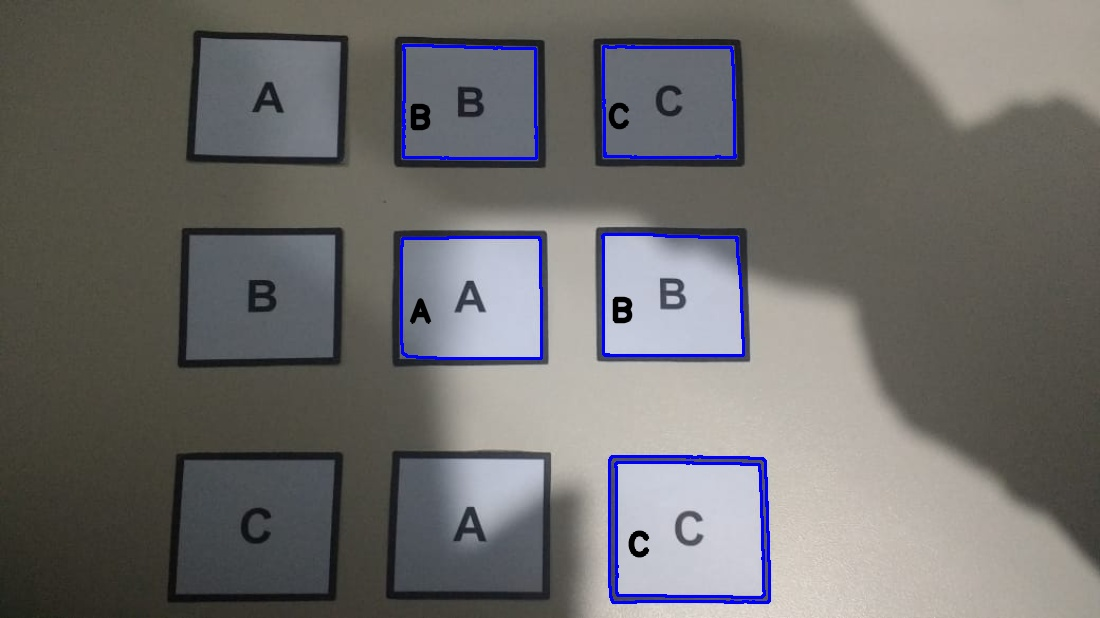
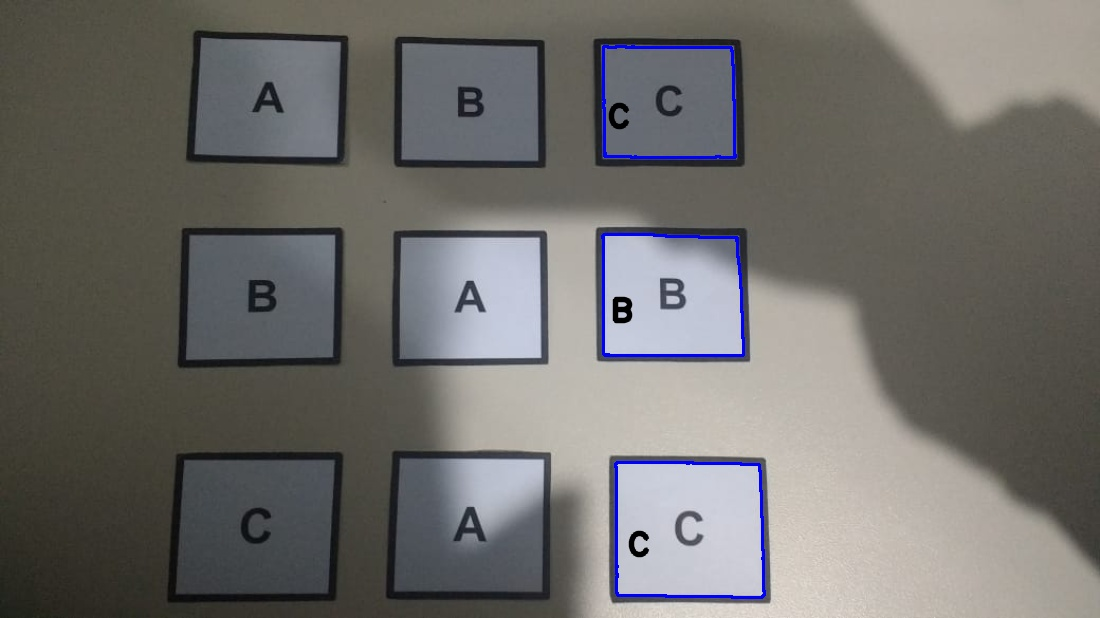
checkpoint

Changed region(s): [[0.5255, 0.7071, 0.7109, 0.9838], [0.34, 0.3689, 0.4945, 0.5841], [0.34, 0.0615, 0.4945, 0.2767]]

diff --git a/Command.py b/Command.py
@@ -27,6 +27,7 @@ class Query_command:
     def __init__(self):
         self.contour = [] 
         self.width, self.height, self.x, self.y = 0, 0, 0, 0
+        self.rect = []
         self.center = [] 
         self.warp = []
         self.command_img = [] 
@@ -57,37 +58,14 @@ def preprocess_image(image):
 
 def find_cnts_commands(thresh_image):
     dummy,cnts,hier = cv2.findContours(thresh_image,cv2.RETR_TREE,cv2.CHAIN_APPROX_SIMPLE)
-    cnts_return = {} 
-    hier_return = {} 
+    cnts_return = [] 
     for i in range(len(cnts)):
         size = cv2.contourArea(cnts[i])
         peri = cv2.arcLength(cnts[i],True)
         approx = cv2.approxPolyDP(cnts[i],0.01*peri,True)
         if len(approx) == 4 and (size < COMMAND_MAX_AREA) and (size > COMMAND_MIN_AREA):
-                hier_return[i] = hier[0][i][3]
-                cnts_return[i] = cnts[i]
-
-    listRemove = []
-    print(len(cnts_return))
-    for i in range(len(cnts_return)):
-        if test(hier_return, i):
-            listRemove.append(i)
-
-    for i in listRemove:
-        del cnts_return[i]
-
-    return cnts_return.values()
-
-def test(hier, i):
-    child = hier.get(i)
-    if child in hier:
-        return True
-    elif child != -1:
-        #test(hier, child)
-        return False
-    else:
-        return False
-
+                cnts_return.append(cnts[i])
+    return cnts_return
 
 def find_commands(cnts, image, train_commands):
     if len(cnts) == 0:
@@ -122,10 +100,25 @@ def find_commands(cnts, image, train_commands):
             if(best_command_match != "Unknown"):
                 qCommand.best_command_match, qCommand.diff = best_command_match, diff
                 line_commands.append(qCommand)
+        check_line(line_commands, image)
         if len(line_commands) > 0:
             commands.append(line_commands)
     
     return commands 
+
+def check_line(line_commands, img):
+    for x in range(len(line_commands)):  
+        for y in range(x+1, len(line_commands)):
+            if intersection(line_commands[x].x, line_commands[y].x, line_commands[x].y, line_commands[y].y, line_commands[x].height, line_commands[y].height, line_commands[x].width, line_commands[y].width):
+                line_commands.remove(line_commands[x])           
+                break
+
+def intersection(X1, X2, Y1, Y2, H1, H2, W1, W2):
+    if X1+W1<X2 or X2+W2<X1 or Y1+H1<Y2 or Y2+H2<Y1:
+        return False
+    else:
+        return True
+
 
 def match_command(qCommand, train_command):
     best_command_match_diff = 1000000000
@@ -134,8 +127,6 @@ def match_command(qCommand, train_command):
     retval, qCommand.command_img = cv2.threshold(qCommand.command_img, 100, 255, cv2. THRESH_BINARY)
     if (len(qCommand.command_img) != 0):
         for Tcommand in train_command:
-            #diff_img = cv2.absdiff(Tcommand.img, qCommand.command_img)
-            #command_diff = int(np.sum(diff_img)/255)
             err = np.sum((Tcommand.img.astype("float") - qCommand.command_img.astype("float")) ** 2)
             err /= float(Tcommand.img.shape[0] * qCommand.command_img.shape[1]) 
             if err < best_command_match_diff:
@@ -165,6 +156,7 @@ def preprocess_command(contour, image):
     qCommand.contour = contour
     # Find width and height of card's bounding rectangle
     qCommand.width, qCommand.height,qCommand.x, qCommand.y = cv2.boundingRect(contour)
+    qCommand.rect = (qCommand.width, qCommand.height,qCommand.x, qCommand.y)
     # Find center point of card by taking x and y average of the four corners.
     qCommand.center, pts = define_center(contour)
     qCommand.command_img = flattener(image, pts, qCommand.width, qCommand.height)

diff --git a/CommandDetector.py b/CommandDetector.py
@@ -23,7 +23,7 @@ for linha in textInput:
 	dim = (1100, int(image.shape[0] * r))
 	image = cv2.resize(image,dim, interpolation = cv2.INTER_AREA)
 	pre_proc = Command.preprocess_image(image)
-	cv2.imwrite(path+"/testeResultadoP"+ nameFile +".jpeg", pre_proc);     
+	#cv2.imwrite(path+"/testeResultadoP"+ nameFile +".jpeg", pre_proc);     
 	cnts = Command.find_cnts_commands(pre_proc)
 	commands = Command.find_commands(cnts, image, train_commands)
 	response = Command.responseCommands(commands)
